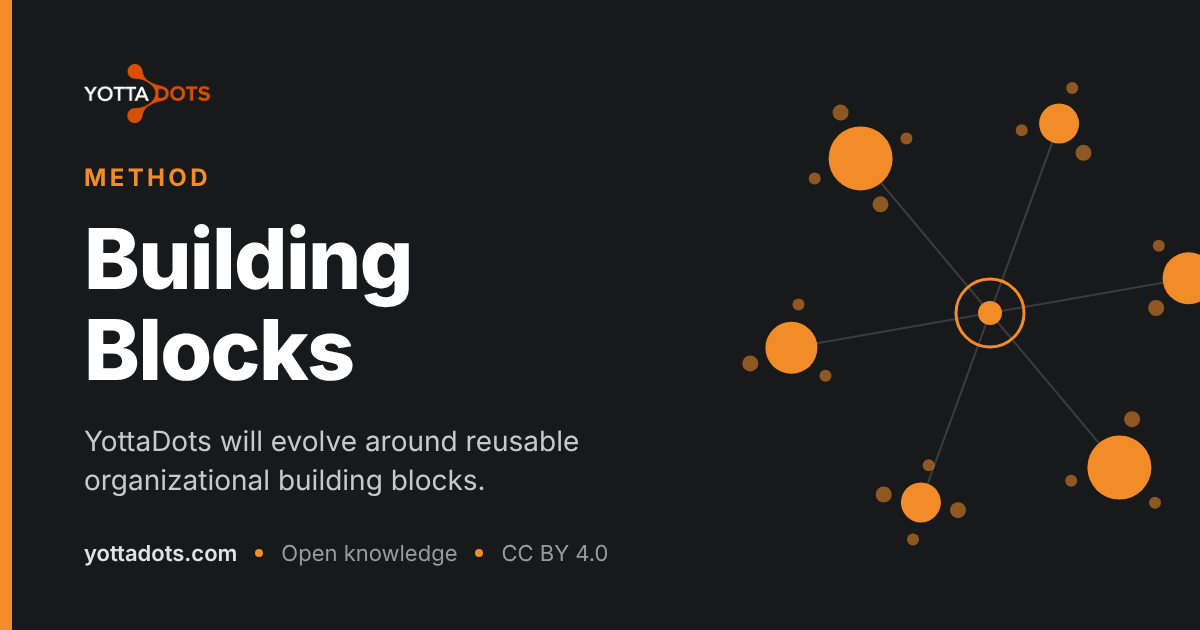
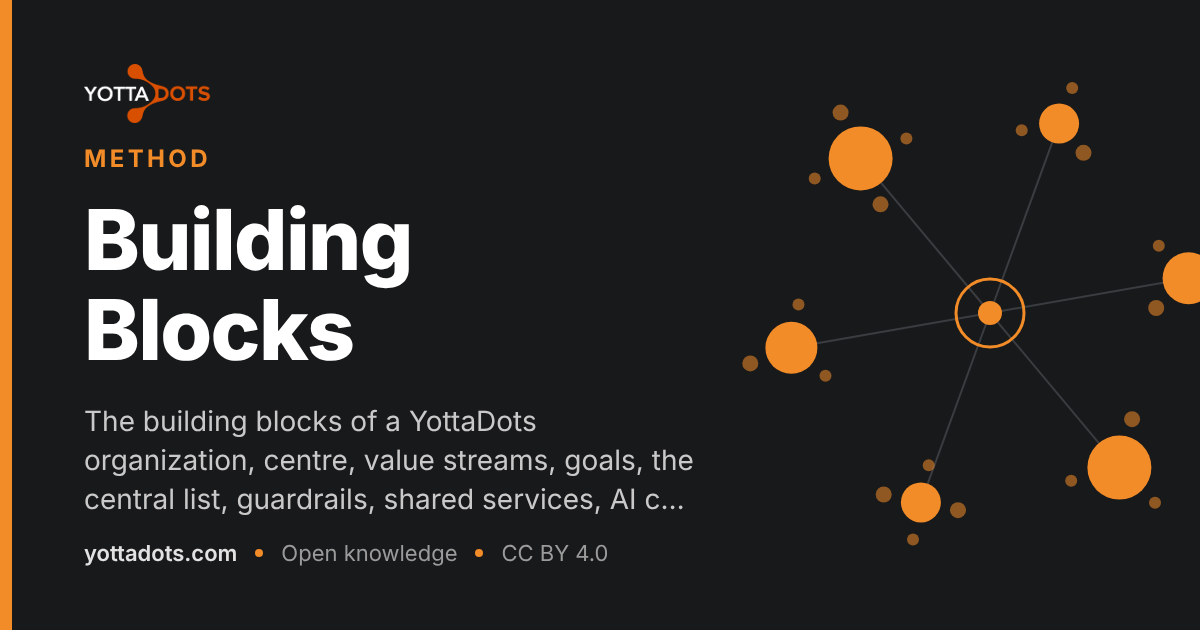
Links and consistency after #39-#41
- Why: link the three money patterns; pattern 8 <-> Beyond Budgeting;
  pattern 2 -> pattern 6; Evolve -> usage check
- Building Blocks rewritten in the D3 vocabulary, with links (audit A5)
- Method: 'What YottaDots provides' lists what exists
- Visuals: federation motif no longer describes D1 (members delegating up)
- README: points to the current site, not the old one
- US spelling where British crept in

Claude-Session: https://claude.ai/code/session_01WDc2s6KT2reEYBWP1nXUw5

Changed region(s): [[0.0617, 0.6333, 0.5858, 0.8143], [0.0617, 0.3317, 0.3392, 0.6032], [0.0617, 0.2111, 0.185, 0.3016]]

diff --git a/docs/method/building-blocks.md b/docs/method/building-blocks.md
@@ -1,23 +1,28 @@
 ---
 title: Building Blocks
+description: The building blocks of a YottaDots organization, centre, value streams, goals, the central list, guardrails, shared services, AI co-workers and reviews, and where each one is explained.
 image: /img/social/method-building-blocks.png
 ---
 
 # Building Blocks
 
-YottaDots will evolve around reusable organizational building blocks.
+A YottaDots organization is made of a small set of building blocks. Each one
+is explained in a principle, rule or pattern.
 
-Initial areas include:
+<small>Status: **proposed (v0.1).** This list follows the four rules of the
+method. It will change as the method develops.</small>
 
-- purpose;
-- capabilities;
-- decision rights;
-- teams;
-- platforms;
-- governance;
-- knowledge;
-- AI co-workers;
-- feedback loops;
-- organizational patterns.
+| Building block | What it is | Where it is explained |
+|---|---|---|
+| **Centre** | The board, management team or holding that decides the what | [Rule 1](./index.md#what-makes-it-a-federation), [Federate](./principles/federate.md) |
+| **Value streams** | The units that deliver value and decide the how | [Rule 3](./index.md#what-makes-it-a-federation), [Federate](./principles/federate.md) |
+| **Goals** | Mission, strategy, OKRs and KPIs: clear, ranked priorities | [Align](./principles/align.md), [Objection round on goals](../patterns/objection-round-on-goals.md) |
+| **The central list** | The short, public list of what the centre decides | [Name what is central](../patterns/name-what-is-central.md) |
+| **Guardrails** | The few rules that apply to every value stream | [Guardrails that earn their place](../patterns/guardrails-that-earn-their-place.md) |
+| **Shared services** | Services offered to value streams, which they may refuse unless agreed as a guardrail | [Rule 4](./index.md#what-makes-it-a-federation), [Opt-out of shared services](../patterns/opt-out-of-shared-services.md) |
+| **Capacity and money** | Teams, suppliers and budgets, allocated to priorities | [Adding capacity is a choice too](../patterns/adding-capacity-is-a-choice.md), [Budgets that do not punish saving](../patterns/budgets-that-do-not-punish-saving.md) |
+| **AI co-workers** | AI that does real work, with a named human owner | [Augment](./principles/augment.md), [AI with a human owner](../patterns/ai-with-a-human-owner.md) |
+| **Reviews** | Regular moments to keep, change or stop: guardrails, the central list, what was built | [Evolve](./principles/evolve.md), [Usage check](../patterns/usage-check.md) |
 
-Each building block can evolve independently while remaining connected to the wider system.
+Each building block can evolve on its own while staying connected to the
+others.

diff --git a/docs/method/principles/evolve.md b/docs/method/principles/evolve.md
@@ -26,7 +26,7 @@ year. Evolve means:
   guardrails, the value streams and the way of working are all choices that
   may turn out to be wrong.
 - **Changes are small and frequent,** rather than large and rare. A big
-  reorganisation every few years is replaced by regular, smaller adjustments.
+  reorganization every few years is replaced by regular, smaller adjustments.
 - **Reviews are built in.** The design includes moments to check whether it
   still works, with a real option to stop things.
 - **Stopping is part of change.** When something new is introduced, decide
@@ -36,7 +36,7 @@ year. Evolve means:
 
 - **Rules pile up.** Without regular review, rules, meetings and reports
   stay long after their reason has gone.
-- **Big reorganisations are costly.** They disrupt work for months and often
+- **Big reorganizations are costly.** They disrupt work for months and often
   layer the new structure on top of the old one.
 - **The method itself can be wrong.** YottaDots is young. Its rules and
   patterns also need to be tested and improved.
@@ -48,13 +48,15 @@ year. Evolve means:
   [Guardrails that earn their place](../../patterns/guardrails-that-earn-their-place.md).
 - The list of central decisions is reviewed every year:
   [Name what is central](../../patterns/name-what-is-central.md).
+- What was built is checked for use, and removed when nobody uses it:
+  [Usage check](../../patterns/usage-check.md).
 - Patterns start as **proposed** and become **accepted** only when real cases
   show that they work ([Patterns](../../patterns/index.md#evidence)).
 - Value streams improve their own way of working, as part of the free how.
 
 ## What it does not mean
 
-- **Not constant reorganisation.** Evolving is about small, deliberate
+- **Not constant reorganization.** Evolving is about small, deliberate
   adjustments, not change for its own sake.
 - **Not "anything goes".** The four rules stay in place while their
   application improves.

diff --git a/docs/why/index.md b/docs/why/index.md
@@ -109,9 +109,12 @@ YottaDots divides the work in two, with four rules:
 **Where the rules are not enough yet.** The four rules do not by themselves
 stop money from replacing choices: a centre can answer a "no capacity"
 objection by hiring another team. And value streams can object to the what,
-but not yet propose to it. We are working on patterns for capacity, usage and
-budgets, and on a possible right for value streams to propose. Until then,
-these are open problems, not solved ones.
+but not yet propose to it. Three proposed patterns address the money problem:
+[Adding capacity is a choice too](../patterns/adding-capacity-is-a-choice.md),
+[Usage check](../patterns/usage-check.md) and
+[Budgets that do not punish saving](../patterns/budgets-that-do-not-punish-saving.md).
+A right for value streams to propose is under discussion. Until these are
+tested, they are open problems, not solved ones.
 
 What YottaDots deliberately does **not** do:
 

diff --git a/docs/comparisons/beyond-budgeting.md b/docs/comparisons/beyond-budgeting.md
@@ -78,7 +78,7 @@ six on leadership and six on management processes, describe the model.
 |---|---|
 | **Compete** | Little. Both decentralize and distrust detailed central control, but they cover different ground. |
 | **Combine** | Well. YottaDots says who decides what; Beyond Budgeting says how money and targets follow from that. A YottaDots centre can set relative goals and allocate resources dynamically, in the Beyond Budgeting way. |
-| **Learn** | Separating target, forecast and resource allocation. And making resources available as needed, which supports the proposed pattern *Budgets that do not punish saving*. |
+| **Learn** | Separating target, forecast and resource allocation. And making resources available as needed, which supports the proposed pattern [Budgets that do not punish saving](../patterns/budgets-that-do-not-punish-saving.md). |
 
 ## Sources
 

diff --git a/docs/patterns/objection-round-on-goals.md b/docs/patterns/objection-round-on-goals.md
@@ -26,7 +26,7 @@ value streams must reach: yearly, half-yearly or quarterly.
 
 Goals set at the top often miss what the people doing the work know: a target
 that cannot be reached with the current capacity, two goals that conflict, or
-a KPI that rewards the wrong behaviour. Asking for "input" does not solve
+a KPI that rewards the wrong behavior. Asking for "input" does not solve
 this. Input can be collected and ignored, and everyone knows it. People then
 stop giving it.
 
@@ -103,4 +103,6 @@ with one board.
 
 - [Name what is central](./name-what-is-central.md): the same objection round
   can be used when the centre adds to its list.
+- [Adding capacity is a choice too](./adding-capacity-is-a-choice.md): what
+  to do when the objection is "we have no capacity".
 - [OKRs one-pager](../comparisons/okrs.md): how OKRs are usually set.

diff --git a/docs/patterns/budgets-that-do-not-punish-saving.md b/docs/patterns/budgets-that-do-not-punish-saving.md
@@ -57,8 +57,9 @@ safe, and outcomes are what counts, the money can go where it does the most
 good, or stay unspent. More frequent reviews remove the reason to hold on to
 money "just in case", because it can be asked for again when it is needed.
 
-This is close to the ideas of Beyond Budgeting, which questions the fixed
-annual budget as the main way to steer an organization.
+This is close to the ideas of
+[Beyond Budgeting](../comparisons/beyond-budgeting.md), which questions the
+fixed annual budget as the main way to steer an organization.
 
 ## Guardrails
 
@@ -96,3 +97,4 @@ annual budget as the main way to steer an organization.
 
 - [Why YottaDots?](../why/index.md): money replaces choices
 - [Adding capacity is a choice too](./adding-capacity-is-a-choice.md)
+- [Beyond Budgeting in one page](../comparisons/beyond-budgeting.md)

diff --git a/docs/community/visuals.md b/docs/community/visuals.md
@@ -25,9 +25,9 @@ change.
 - **Colours:** orange `#f28c28` on dark `#18191b`, with grey `#3a3c40` for
   lines and secondary shapes. Use orange for what matters most.
 - **Font:** Inter.
-- **The federation motif:** independent members (clusters of dots) around a
-  small shared core. Lines run from the members to the core, because members
-  delegate to the core and not the other way round. Use it as the recurring
+- **The federation motif:** value streams (clusters of dots) around a small
+  shared centre. Lines run both ways: goals go from the centre to the value
+  streams, and input and objections come back. Use it as the recurring
   graphic element.
 - **Simple and flat:** no gradients, shadows or 3D. A visual explains one idea.
 

diff --git a/docs/method/principles/align.md b/docs/method/principles/align.md
@@ -36,7 +36,7 @@ freedom serves a shared purpose. It has two parts:
   and confusing customers.
 - **Alignment without a voice is not believed.** Goals set without the
   people who must reach them often miss what those people know: limited
-  capacity, conflicting targets, or KPIs that reward the wrong behaviour.
+  capacity, conflicting targets, or KPIs that reward the wrong behavior.
   People comply on paper and work around the goals in practice.
 - **Objections carry knowledge upwards.** A formal right to object is the way
   local knowledge reaches the what. It also makes the centre explain its

diff --git a/docs/method/index.md b/docs/method/index.md
@@ -57,11 +57,10 @@ YottaDots is not intended to prescribe one organizational structure.
 
 Instead, it provides:
 
-- principles;
-- patterns;
-- canvases;
-- decision models;
-- examples;
-- experiments.
+- [principles](./principles.md): why it works this way;
+- the four rules above: what makes it a federation;
+- [patterns](../patterns/index.md): how to make the rules work in practice;
+- [comparisons](../comparisons/index.md) with other models;
+- canvases (planned).
 
 Organizations combine these building blocks based on their own context.

diff --git a/docs/patterns/usage-check.md b/docs/patterns/usage-check.md
@@ -42,7 +42,7 @@ while nobody feels responsible for removing them.
    - **little used:** improve it, or ask the intended users why;
    - **not used:** stop it and remove it.
 4. **Plan the removal as real work,** with an owner and a date. Removing is
-   not "free"; it competes with new work and must be prioritised.
+   not "free"; it competes with new work and must be prioritized.
 5. **Report the results** to the centre and the value streams, so the lessons
    feed the next round of choices.
 

diff --git a/README.md b/README.md
@@ -6,7 +6,9 @@ YottaDots is an open method for federated organizations and AI-enabled work.
 
 ## Website
 
-https://yottadots.com
+https://yottadots.github.io/yottadots.com/
+
+(www.yottadots.com is the old version and is kept for reference only.)
 
 ## Principles
 
@@ -34,7 +36,7 @@ See:
 
 or visit:
 
-https://yottadots.com/docs/community/contribute
+https://yottadots.github.io/yottadots.com/docs/community/contribute
 
 ## Repository
 
